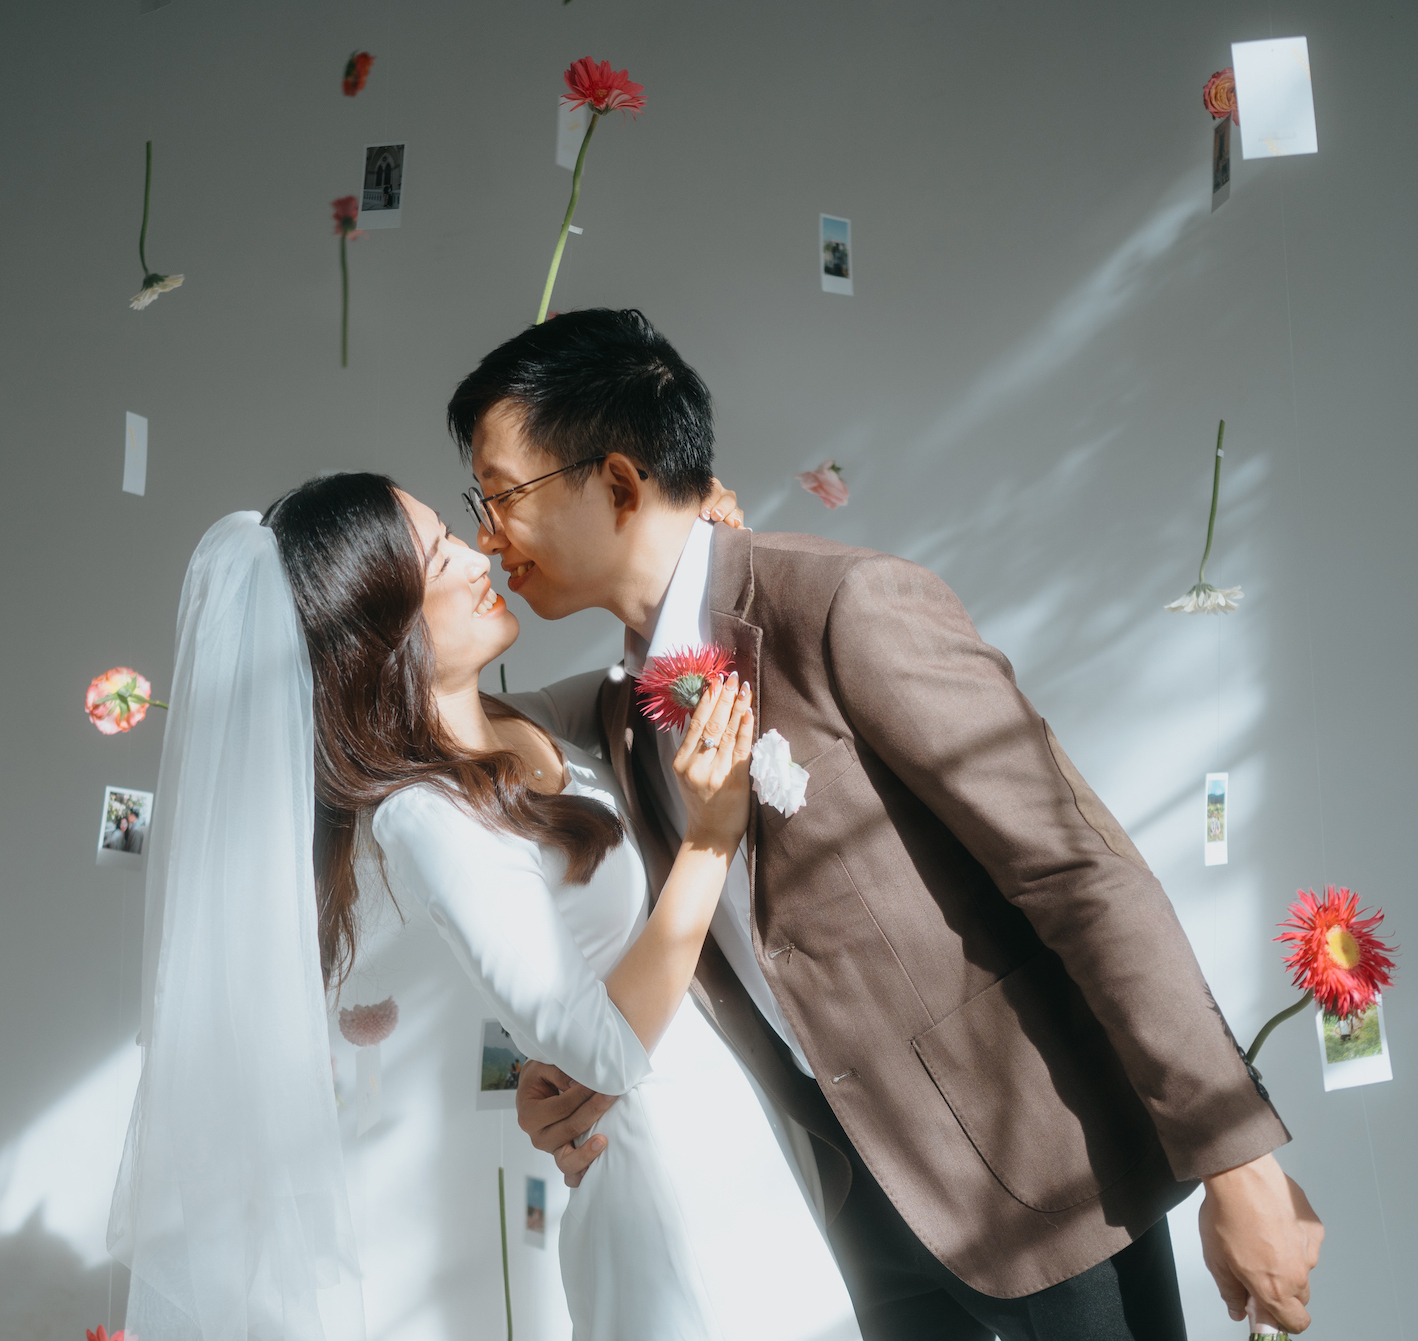
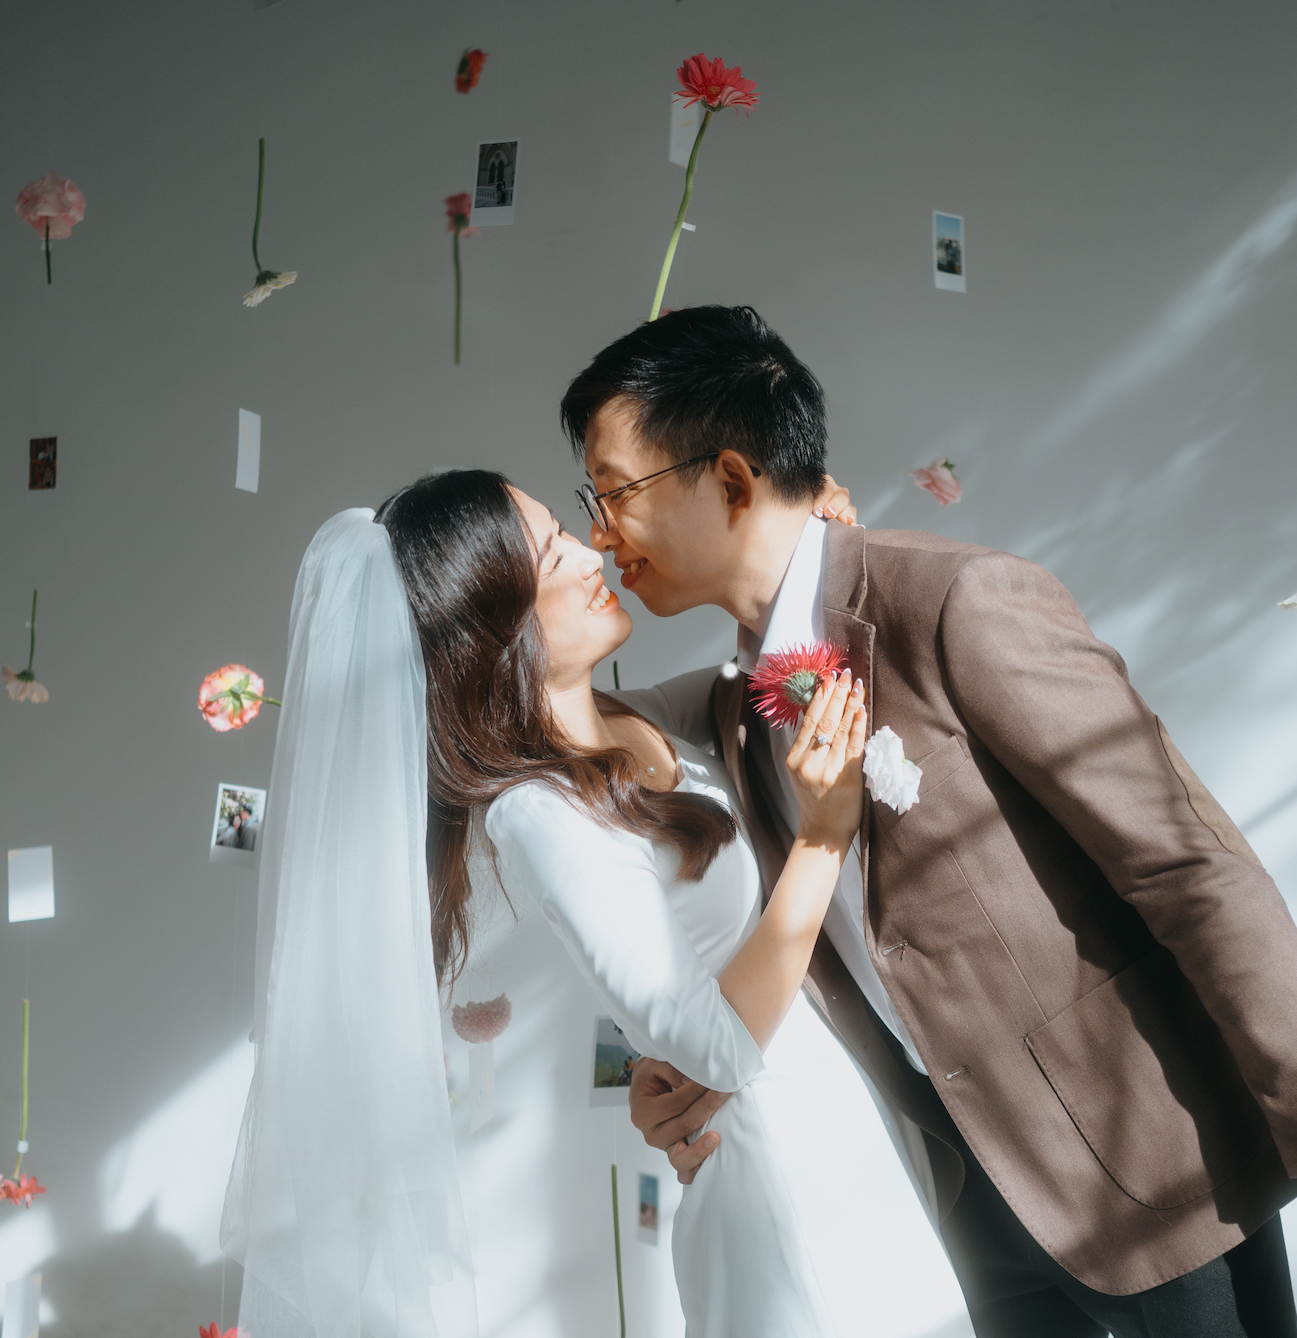
change image and css to render image

diff --git a/utils/galery.css b/utils/galery.css
@@ -61,6 +61,7 @@
   top: -254px;
   left: 0px;
   background-image: url("../galery/img_1.jpg");
+  background-position: center;
 }
 
 #IMAGE26>.ladi-image {
@@ -172,6 +173,7 @@
   top: 0px;
   left: 0px;
   background-image: url("../galery/img_8.jpg");
+  background-position: center;
 }
 
 #IMAGE53.ladi-animation>.ladi-image {
@@ -203,6 +205,7 @@
   top: -15.0917px;
   left: 0px;
   background-image: url("../galery/img_1.jpg");
+  background-position: center;
 }
 
 #IMAGE42.ladi-animation>.ladi-image {
@@ -224,7 +227,7 @@
 #IMAGE40 {
   width: 31%;
   height: 179.953px;
-  top: 320.988px;
+  top: 319.988px;
   left: 10.0px;
 }
 
@@ -234,6 +237,7 @@
   top: 0px;
   left: 0px;
   background-image: url("../galery/img_9.jpg");
+  background-position: center;
 }
 
 #IMAGE40.ladi-animation>.ladi-image {
@@ -265,6 +269,7 @@
   top: 0px;
   left: 0px;
   background-image: url("../galery/img_4.jpg");
+  background-position: center;
 }
 
 #IMAGE45.ladi-animation>.ladi-image {
@@ -296,6 +301,7 @@
   top: 0px;
   left: 0px;
   background-image: url("../galery/img_3.jpg");
+  background-position: center;
 }
 
 #IMAGE44.ladi-animation>.ladi-image {
@@ -327,6 +333,7 @@
   top: 0px;
   left: 0px;
   background-image: url("../galery/img_6.jpg");
+  background-position: center;
 }
 
 #IMAGE47.ladi-animation>.ladi-image {
@@ -372,6 +379,7 @@
   top: 0px;
   left: 0px;
   background-image: url("../galery/img_2.jpg");
+  background-position: center;
 }
 
 #IMAGE43.ladi-animation>.ladi-image {
@@ -403,6 +411,7 @@
   top: 0px;
   left: 0px;
   background-image: url("../galery/img_5.jpg");
+  background-position: center;
 }
 
 #IMAGE46.ladi-animation>.ladi-image {
@@ -434,6 +443,7 @@
   top: 0px;
   left: 0px;
   background-image: url("../galery/img_7.jpg");
+  background-position: center;
 }
 
 #IMAGE49.ladi-animation>.ladi-image {
